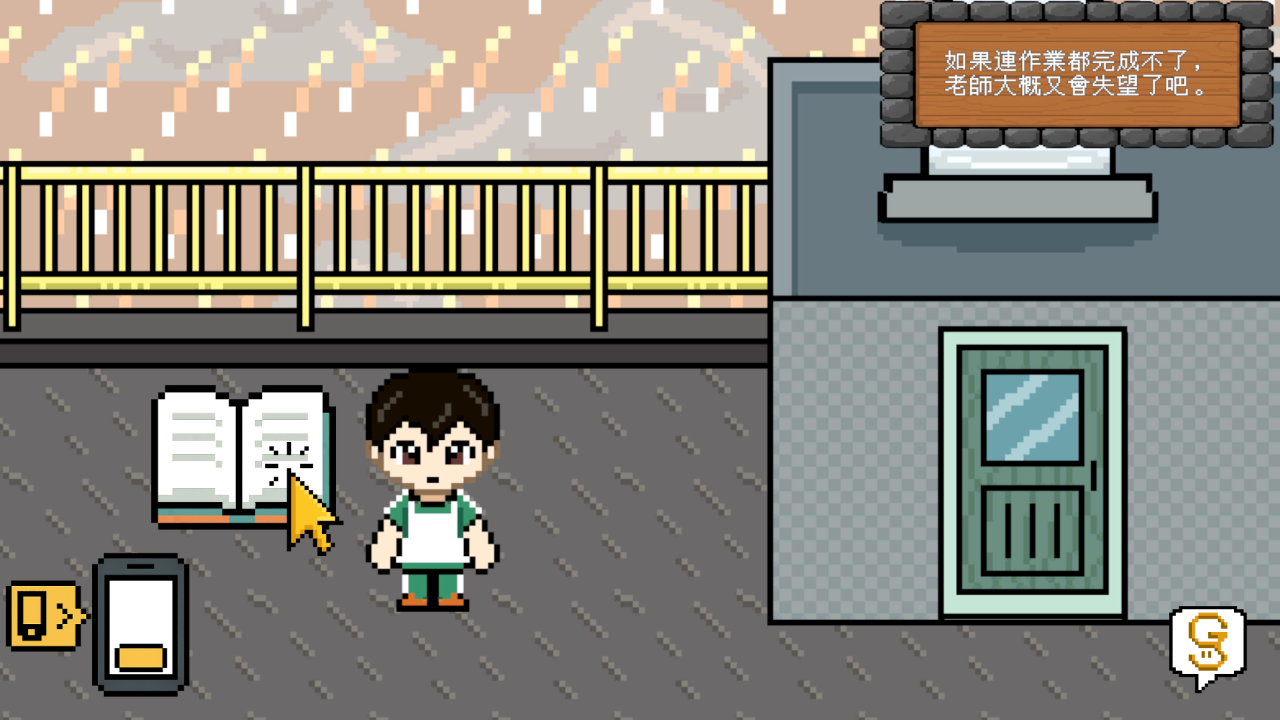
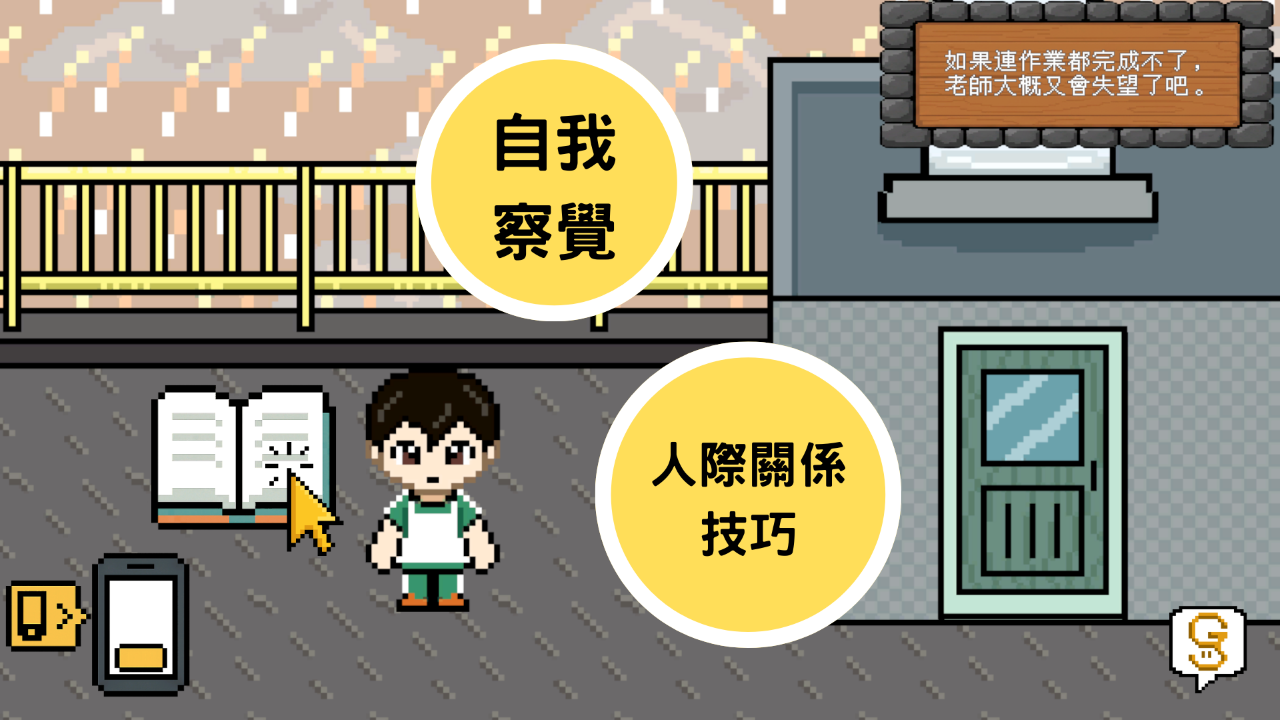
2D 橫向卷軸冒險 RPG

Changed region(s): [[0.4375, 0.4583, 0.7188, 0.9167], [0.3125, 0.0611, 0.5625, 0.4583]]

diff --git a/index.html b/index.html
@@ -94,7 +94,7 @@
                 <img src="images/介紹圖.png" alt="作品介紹圖">
                 <div class="text-content">
                     <h2>作品介紹</h2>
-                    <p>《孤故 Good Story》是一款專為青少年設計的敘事冒險遊戲，其核心目標是透過遊戲化學習，引導玩家認識並實踐「社會情緒學習」（SEL）的重要概念：自我察覺、人際關係技巧。玩家將扮演一名迷失於異空間的學生，意外進入一個象徵內心世界的奇幻場景。在探索過程中，在冒險過程中，玩家將遇見重要的 NPC──小雨，一位總是戴著耳機的轉學生。初次相遇時，唯有透過耐心與同理心的互動，才能逐步建立信任與連結，並在之後與小雨一同展開一連串的冒險旅程。</p>
+                    <p>《孤故 Good Story》是專為青少年設計的，一款以「社會情緒學習」為核心的 2D 橫向卷軸冒險 RPG。其核心目標是透過遊戲化學習，引導玩家認識並實踐「社會情緒學習」（SEL）的重要概念：自我察覺、人際關係技巧。玩家將扮演一名迷失於異空間的學生，意外進入一個象徵內心世界的奇幻場景。在探索過程中，在冒險過程中，玩家將遇見重要的 NPC──小雨，一位總是戴著耳機的轉學生。初次相遇時，唯有透過耐心與同理心的互動，才能逐步建立信任與連結，並在之後與小雨一同展開一連串的冒險旅程。</p>
                 </div>
             </div>
         </section>
